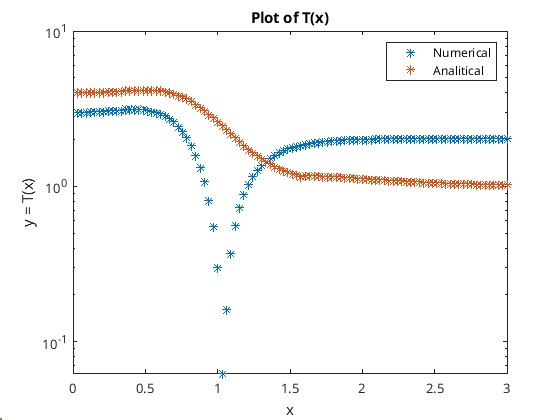
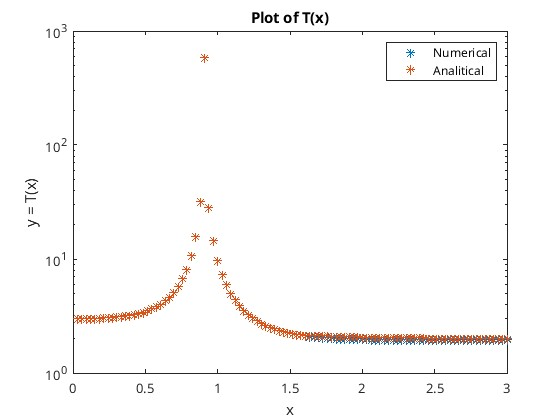
Final solution to task 1 of ENUME lab1

diff --git a/UNI/ENUME-NumericalMethods/lab1/raport.tex b/UNI/ENUME-NumericalMethods/lab1/raport.tex
@@ -1,6 +1,7 @@
 \documentclass[11pt]{article}
 \usepackage{graphicx} % Required for inserting images
 \usepackage{amsmath}
+\usepackage{listings}
 \graphicspath{ {./lab1} }
 
 \begin{document}
@@ -44,7 +45,7 @@ Therefore we obtain:
 \begin{align*}
     \tilde{v_1} &= \cos(x(1+\epsilon_1)) \\ 
     \tilde{v_2} &= (x(1+\epsilon))^3 = x^3 (1+3\epsilon_2) \\ 
-    \tilde{v_3} &= \frac{\tilde{v_1}}{\tilde{v_2}}(1+\epsilon_3) \\ 
+    \tilde{v_3} &= \frac{\tilde{v_1}}{\tilde{v_2}} \\ 
     \tilde{v_4} &= (x(1+\epsilon))^2 = x^2 (1+2\epsilon_4) \\
     \tilde{y} &= \tilde{v_3} - \tilde{v_4} \\ 
 \end{align*}
@@ -61,41 +62,70 @@ Using those properties:
 \end{align*}
 Now solve $v_3$:
 \begin{align*}
-    \tilde{v_3} &= \displaystyle\frac{\cos(x) \cdot (1 - x\tan(x) \epsilon_1)}{x^3 (1+3\epsilon_2)} (1+\epsilon_3)\\
-    &= \frac{\cos(x)}{x^3} (1 - x\tan(x) \epsilon_1)\cdot (1+3\epsilon_2)^{-1}(1+\epsilon_3)\\
-    &= \frac{\cos(x)}{x^3} (1 - x\tan(x) \epsilon_1)\cdot (1-3\epsilon_2)(1+\epsilon_3)\\
-    &= \frac{\cos(x)}{x^3} (1 - x\tan(x) \epsilon_1 - 3\epsilon_2)(1+\epsilon_3)\\
-    &= \frac{\cos(x)}{x^3} (1 - x\tan(x) \epsilon_1 - 3\epsilon_2+\epsilon_3)\\
+    \tilde{v_3} &= \displaystyle\frac{\cos(x) \cdot (1 - x\tan(x) \epsilon_1)}{x^3 (1+3\epsilon_2)}\\
+    &= \frac{\cos(x)}{x^3} (1 - x\tan(x) \epsilon_1)\cdot (1+3\epsilon_2)^{-1}\\
+    &= \frac{\cos(x)}{x^3} (1 - x\tan(x) \epsilon_1)\cdot (1-3\epsilon_2)\\
+    &= \frac{\cos(x)}{x^3} (1 - x\tan(x) \epsilon_1 - 3\epsilon_2)\\
 \end{align*}
 Finally, we get:
 \begin{align*}
-\tilde{y}&=\frac{\cos(x)}{x^3}(1 - x\tan(x) \epsilon_1 - 3\epsilon_2 + \epsilon_3)-x^2(1+2\epsilon_4)\\
-    &=\frac{\cos(x)}{x^3}-\frac{\cos(x)}{x^3}(x\tan(x) \epsilon_1 + 3\epsilon_2 - \epsilon_3)-x^2-2x^2\epsilon_4 \\
-    &=y-\frac{\cos(x)}{x^3}(x\tan(x) \epsilon_1 + 3\epsilon_2 - \epsilon_3)-2x^2\epsilon_4\\
-    &=y(1 + (-\frac{\cos(x)}{x^3}(x\tan(x) \epsilon_1 + 3\epsilon_2 - \epsilon_3)-2x^2\epsilon_4)\frac1y)\\
-    &=y(1 + (-\frac{\sin(x)}{x^2}\epsilon_1 - 3\frac{\cos(x)}{x^3}\epsilon_2 -\frac{\cos(x)}{x^3}\epsilon_3-2x^2\epsilon_4)\frac1y)\\
+\tilde{y}&=\frac{\cos(x)}{x^3}(1 - x\tan(x) \epsilon_1 - 3\epsilon_2)-x^2(1+2\epsilon_4)\\
+    &=\frac{\cos(x)}{x^3}-\frac{\cos(x)}{x^3}(x\tan(x) \epsilon_1 + 3\epsilon_2)-x^2-2x^2\epsilon_4 \\
+    &=y-\frac{\cos(x)}{x^3}(x\tan(x) \epsilon_1 + 3\epsilon_2)-2x^2\epsilon_4\\
+    &=y(1 + (-\frac{\cos(x)}{x^3}(x\tan(x) \epsilon_1 + 3\epsilon_2)-2x^2\epsilon_4)\frac1y)\\
+    &=y(1 + (-\frac{\sin(x)}{x^2}\epsilon_1 - 3\frac{\cos(x)}{x^3}\epsilon_2 - 2x^2\epsilon_4)\frac1y)\\
 \end{align*}
 Therefore, 
-$$T(x) = \displaystyle\frac{\left|-\frac{\sin(x)}{x^2}\right| + \left|- 3\frac{\cos(x)}{x^3}\right| +\left|-\frac{\cos(x)}{x^3}\right| + \left|-2x^2\right|}{\frac{\cos(x)}{x^3} + x^2}$$
+$$T(x) = \displaystyle\frac{
+\left|-\frac{\sin(x)}{x^2}\right| +
+\left|- 3\frac{\cos(x)}{x^3}\right| +
+\left|-2x^2\right|
+}
+{\frac{\cos(x)}{x^3} - x^2}$$
 
-This yields results different from the ones we got via calculating the error numerically.
+This yields results simmilar to the ones we got via calculating the error numerically.
 Function $$T(x) = \frac{1}{\epsilon_{sim}}\left| \displaystyle\frac{y(\tilde{x}) - y(x)}{y(x)} \right|$$
-Differs significantly from the one we got from analitical solution.\\
-Graph that visualises the difference:\\
+Does not differ significantly from the one we got from analitical solution.\\
+Graph that visualises both:\\
 \includegraphics[width=\textwidth]{Task1.jpg}
 
 \pagebreak
-\section{Task 2}
-\Lorem ipsum dolor sit amet, officia excepteur ex fugiat reprehenderit enim
-labore culpa sint ad nisi Lorem pariatur mollit ex esse exercitation amet. Nisi
-anim cupidatat excepteur officia. Reprehenderit nostrud nostrud ipsum Lorem est
-aliquip amet voluptate voluptate dolor minim nulla est proident. Nostrud
-officia pariatur ut officia. Sit irure elit esse ea nulla sunt ex occaecat
-reprehenderit commodo officia dolor Lorem duis laboris cupidatat officia
-voluptate. Culpa proident adipisicing id nulla nisi laboris ex in Lorem sunt
-duis officia eiusmod. Aliqua reprehenderit commodo ex non excepteur duis sunt
-velit enim. Voluptate laboris sint cupidatat ullamco ut ea consectetur et est
-culpa et culpa duis.
+Code I used to obtain such graph:
+\begin{lstlisting}[language=matlab]
+% clear previous experiment results
+clc, clearvars, close all
 
+% define domain and function
+x = linspace(0,3,100);
+y = @(x) cos(x)./x.^3 - x.^2;
+% define erronous domain
+esim = 1.0e-8;
+x_eps = x.*(1+esim);
+% calculate true y and epsilon y
+ydot = y(x);
+yeps = y(x_eps);
+% calculate T numerically
+numerator = yeps - ydot;
+abs_error = abs(numerator ./ ydot);
+tx = 1/esim * abs_error;
+
+% calculate T analiticaly (formula calculated in the report)
+T1 = -sin(x)./(x.^2);
+T2 = -3*cos(x)./(x.^3);
+T3 = 2*x.^2;
+
+Tn = (abs(T1) + abs(T2) + abs(T3));
+tx_analitical = Tn./abs(ydot);
+
+% plot results to validate both methods result in simmilar results
+semilogy(x,tx, '*');
+hold on 
+semilogy(x,tx_analitical, '*');
+title("Plot of T(x)"), xlabel("x"), ylabel("y = T(x)"),
+legend("Numerical", "Analitical")
+\end{lstlisting}
+
+\pagebreak
+\section{Task 2}
 \end{document}
 

diff --git a/UNI/ENUME-NumericalMethods/lab1/sol1.m b/UNI/ENUME-NumericalMethods/lab1/sol1.m
@@ -18,10 +18,10 @@ tx = 1/esim * abs_error;
 % calculate T analiticaly (formula calculated in the report)
 T1 = -sin(x)./(x.^2);
 T2 = -3*cos(x)./(x.^3);
-T3 = x.^2;
+T3 = 2*x.^2;
 
-analitical = (abs(T1) + abs(T2) + abs(T3))./ydot;
-tx_analitical = analitical;
+Tn = (abs(T1) + abs(T2) + abs(T3));
+tx_analitical = Tn./abs(ydot);
 
 % plot results to validate both methods result in simmilar results
 semilogy(x,tx, '*');
